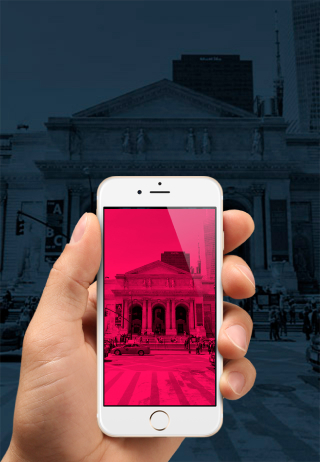
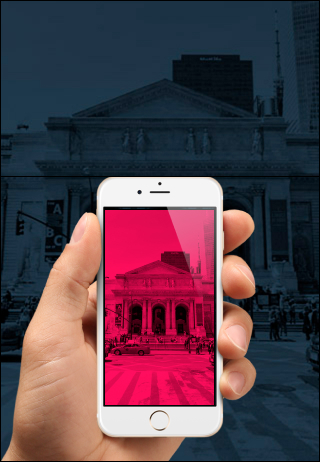
fix

diff --git a/css/main.css b/css/main.css
@@ -152,11 +152,9 @@ img {
 @media screen and (max-width: 500px) {
   .banner {
     background-image: url(../img/back-mobile.jpg);
-    background-position: center top;
-    background-size: 100vw 65vh;
+    background-position: top center;
+    background-size: 100vw 60vh;
     background-repeat: no-repeat;
-    -o-object-fit: initial;
-       object-fit: initial;
   }
 }
 
@@ -279,6 +277,7 @@ img {
     margin-right: auto;
     margin-left: auto;
     margin-bottom: 1.3888888889rem;
+    font-size: 14px;
   }
 }
 

diff --git a/css/sass/banner.scss b/css/sass/banner.scss
@@ -14,10 +14,9 @@
 
   @include phone {
     background-image: url(../img/back-mobile.jpg);
-    background-position: center top;
-    background-size: 100vw 65vh;
+    background-position: top center;
+    background-size: 100vw 60vh;
     background-repeat: no-repeat;
-    object-fit: initial;
   }
 }
 
@@ -127,5 +126,6 @@
     margin-right: auto;
     margin-left: auto;
     margin-bottom: rem(25px);
+    font-size: 14px;
   }
 }
